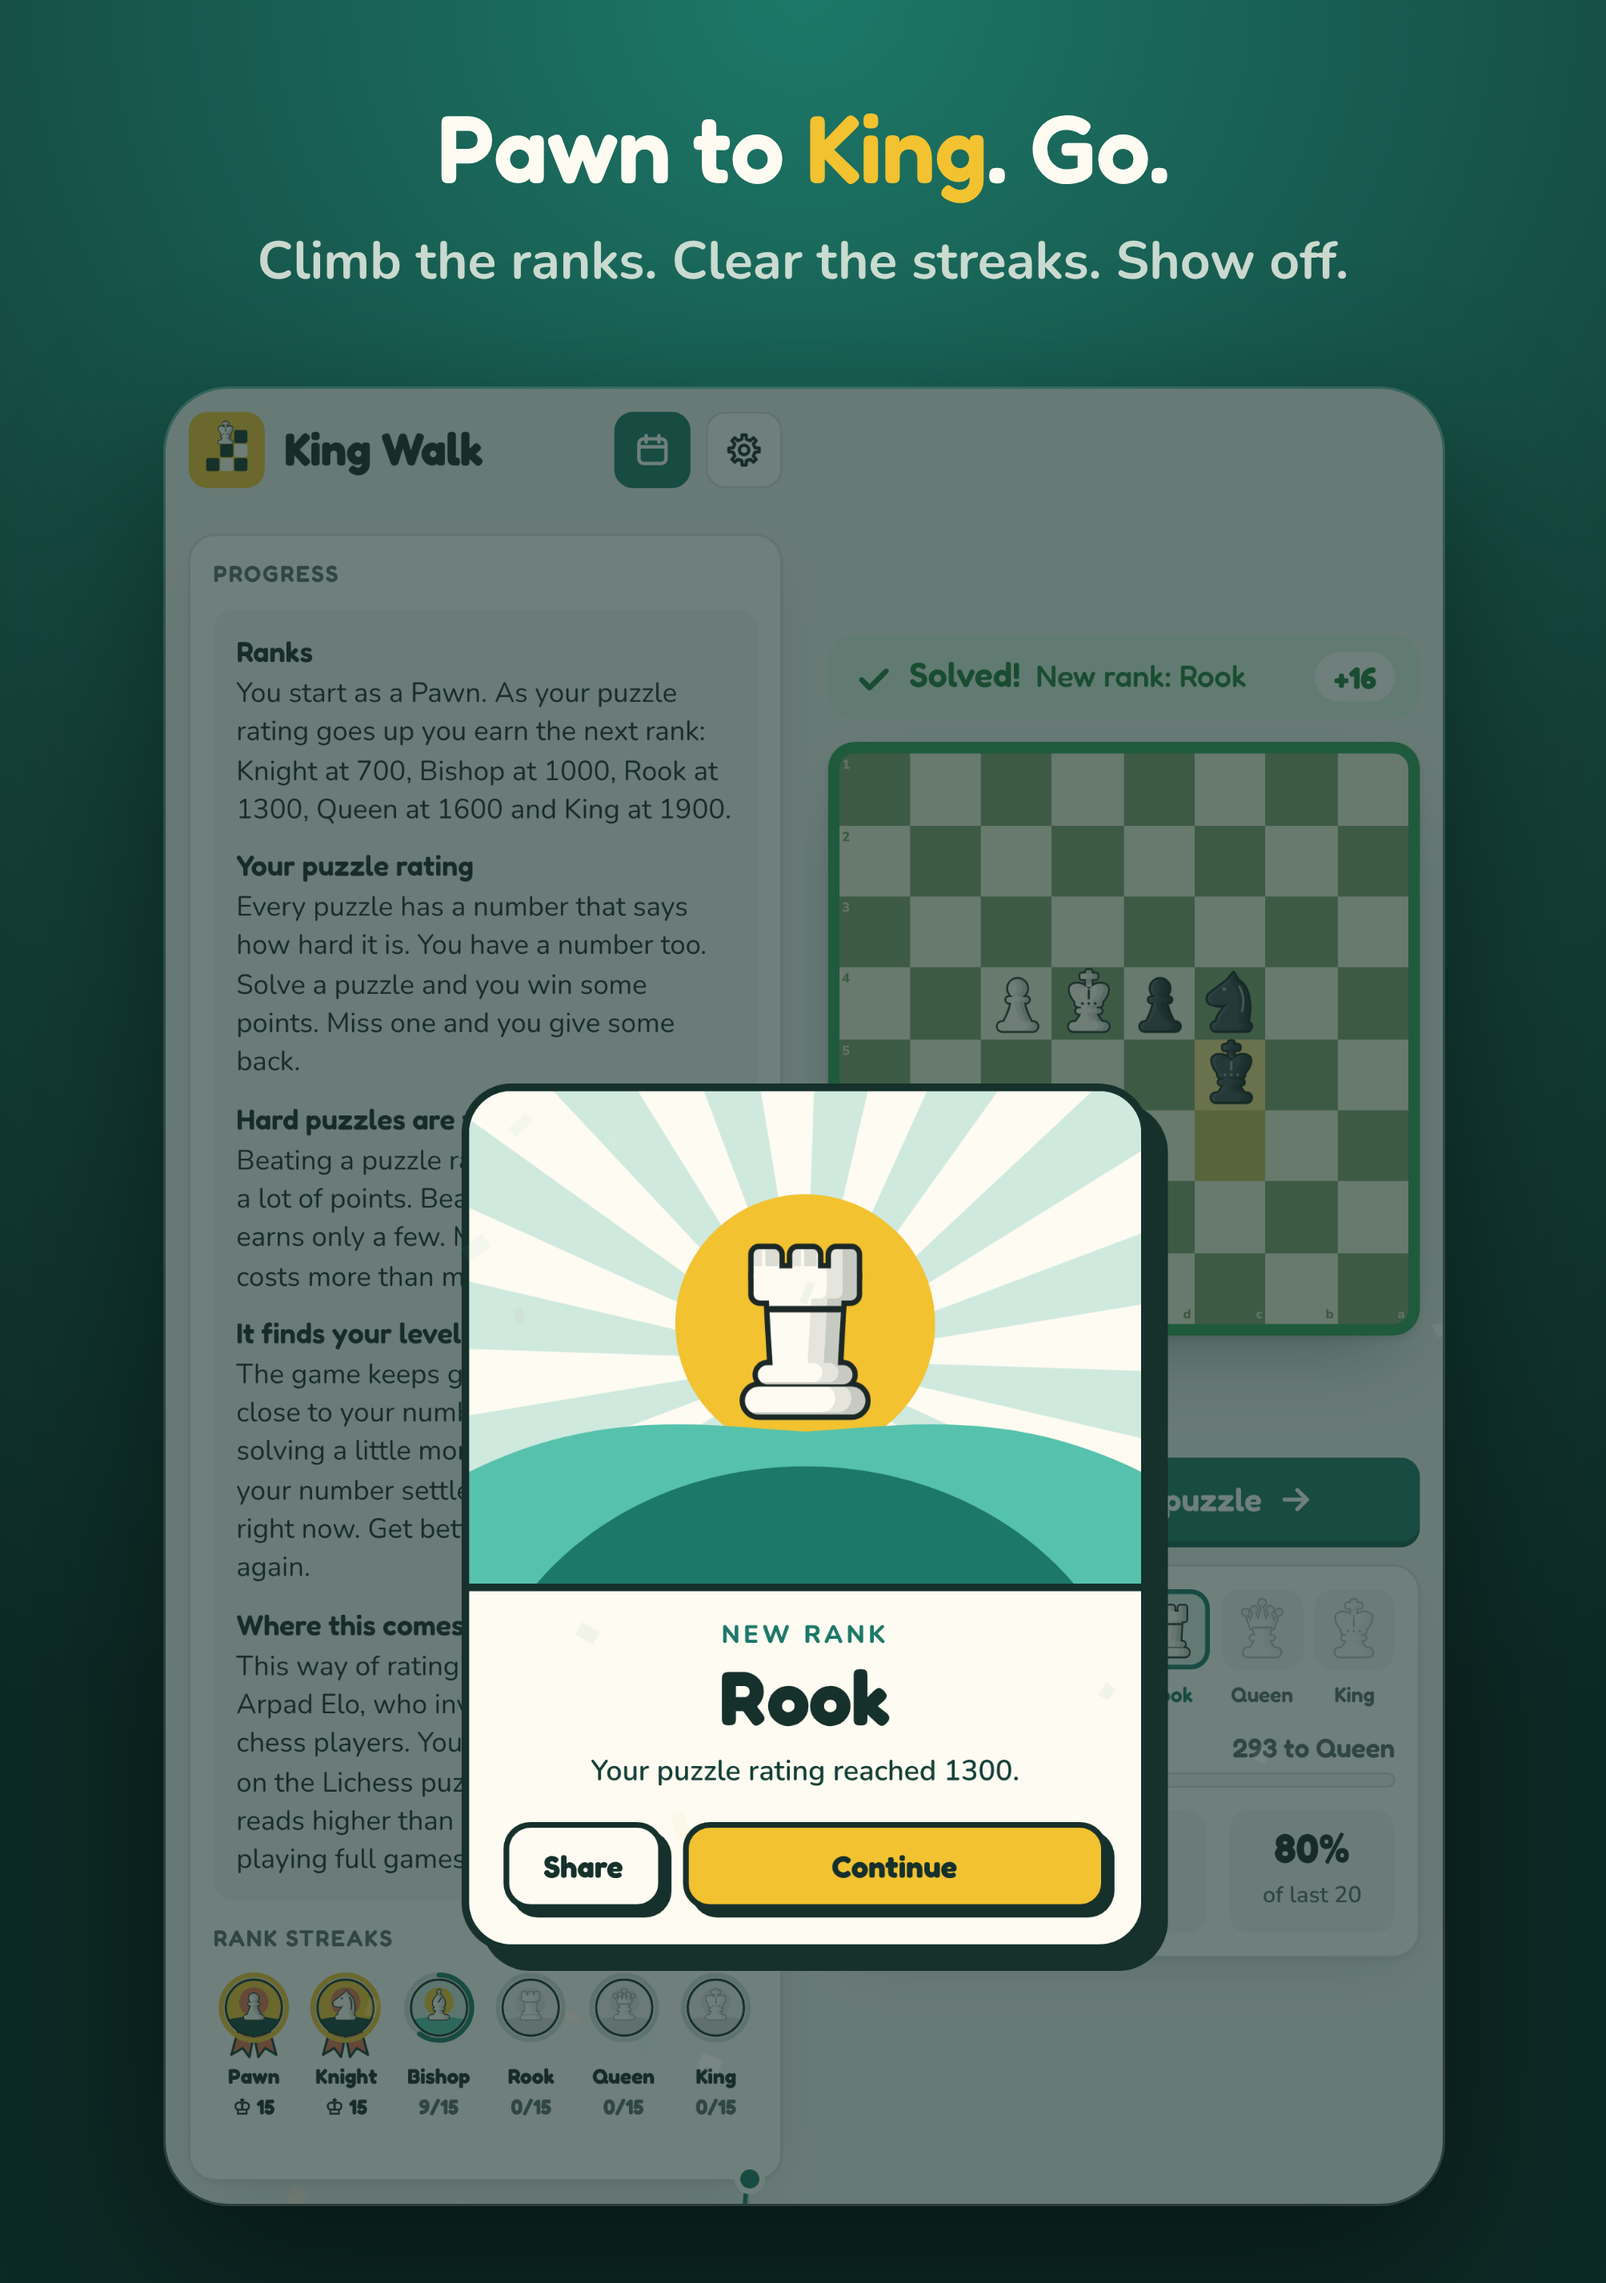
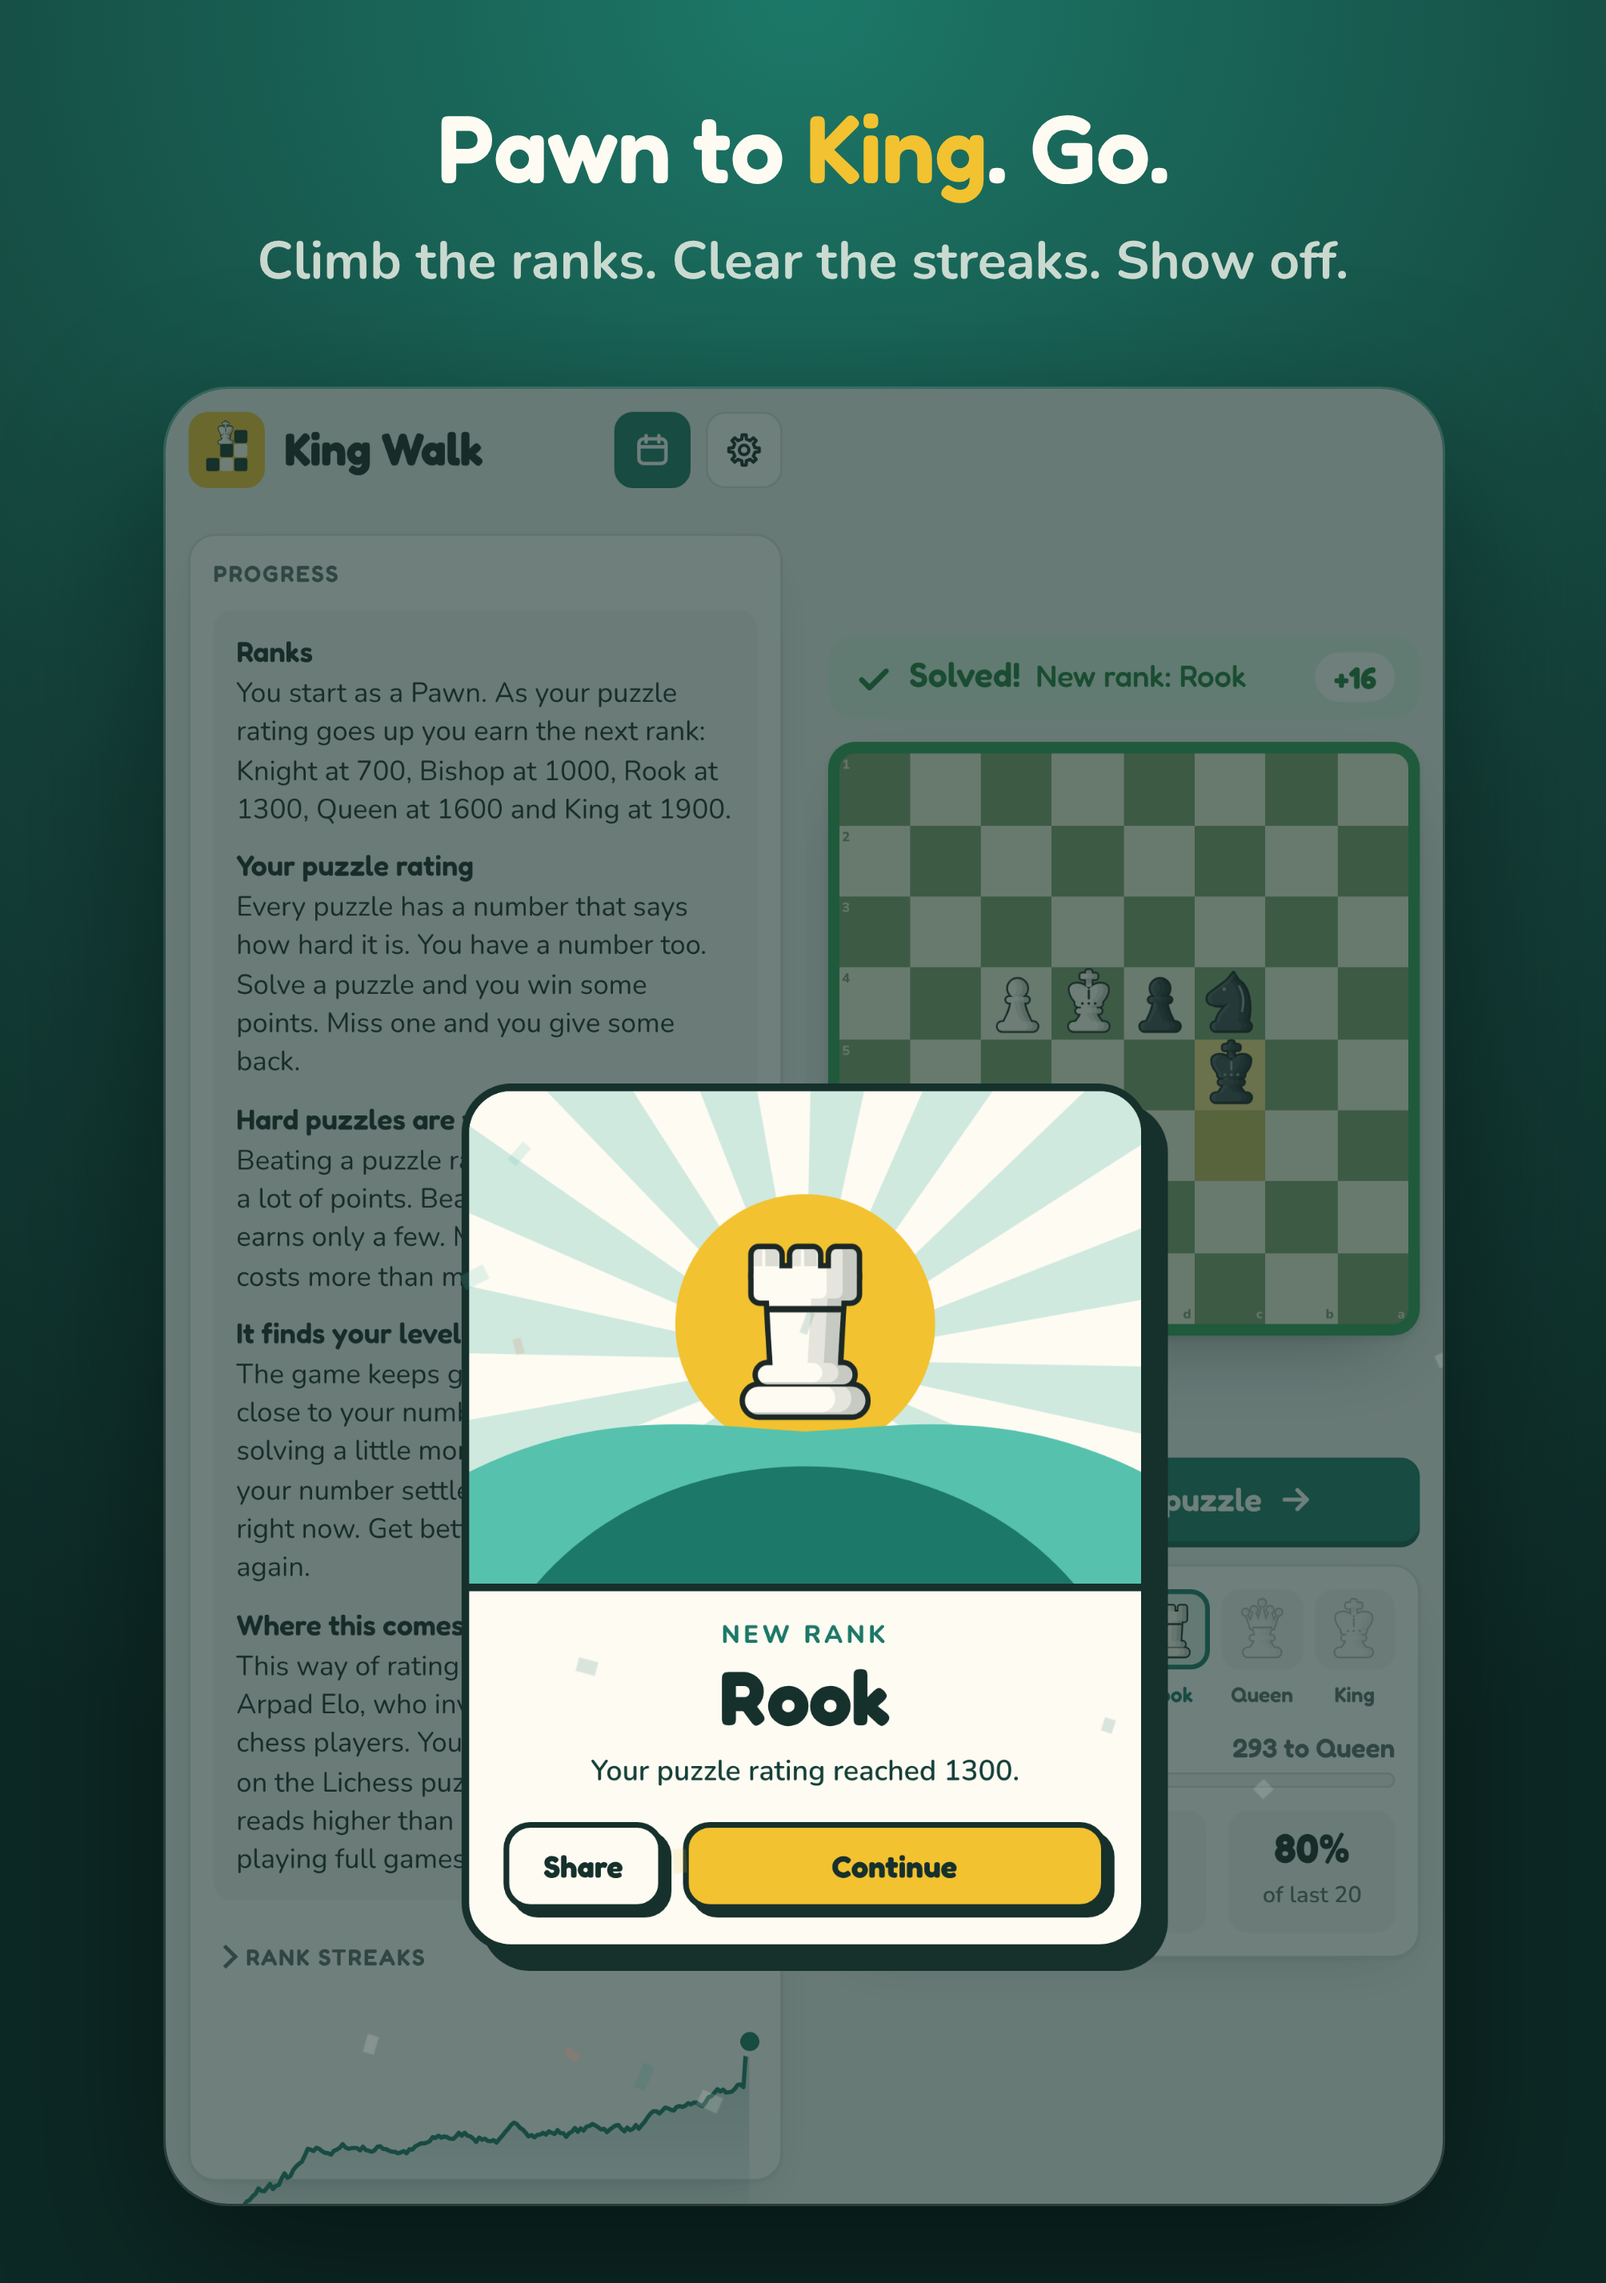
Rank streak badges fold into one row; Apple's names for StandBy in Spanish and Dutch
- Under Progress, Rank streaks is one line ("2 of 6 cleared"); tap it for the badges.
- The Spanish and Dutch listings use Apple's own names: "En reposo" and "Stand-by".
- Store screenshots regenerated; App Review notes say where rank streaks are.

Claude-Session: https://claude.ai/code/session_01Gz6UpCNqeV6v9yfsNTJcE1

Changed region(s): [[0.1236, 0.8423, 0.4634, 0.9671]]

diff --git a/lang.js b/lang.js
@@ -2,6 +2,7 @@
    (T("...") calls and the page's markup); missing entries show in English. {name} placeholders are filled in by the game. */
 window.KW_STRINGS = {
   "es": {
+    "{n} of {total} cleared": "{n} de {total} superadas",
     ", becomes a {piece}": ", se convierte en {piece}",
     ", can move here": ", se puede mover aquí",
     ", can take here": ", se puede capturar aquí",
@@ -281,6 +282,7 @@ window.KW_STRINGS = {
     "{rank} streak, puzzle {n} of {total}": "Racha {rank}, problema {n} de {total}"
   },
   "fr": {
+    "{n} of {total} cleared": "{n} sur {total} réussies",
     ", becomes a {piece}": ", promu en {piece}",
     ", can move here": ", déplacement possible",
     ", can take here": ", prise possible",
@@ -560,6 +562,7 @@ window.KW_STRINGS = {
     "{rank} streak, puzzle {n} of {total}": "Série {rank}, problème {n} sur {total}"
   },
   "de": {
+    "{n} of {total} cleared": "{n} von {total} geschafft",
     ", becomes a {piece}": ", Umwandlung in {piece}",
     ", can move here": ", Zug hierhin möglich",
     ", can take here": ", Schlagen hier möglich",
@@ -839,6 +842,7 @@ window.KW_STRINGS = {
     "{rank} streak, puzzle {n} of {total}": "Serie {rank}, Aufgabe {n} von {total}"
   },
   "it": {
+    "{n} of {total} cleared": "{n} su {total} superate",
     ", becomes a {piece}": ", promosso a {piece}",
     ", can move here": ", puoi muovere qui",
     ", can take here": ", puoi catturare qui",
@@ -1118,6 +1122,7 @@ window.KW_STRINGS = {
     "{rank} streak, puzzle {n} of {total}": "Serie {rank}, problema {n} su {total}"
   },
   "pt": {
+    "{n} of {total} cleared": "{n} de {total} concluídas",
     ", becomes a {piece}": ", promove a {piece}",
     ", can move here": ", pode ir para cá",
     ", can take here": ", pode capturar aqui",
@@ -1397,6 +1402,7 @@ window.KW_STRINGS = {
     "{rank} streak, puzzle {n} of {total}": "Sequência {rank}, problema {n} de {total}"
   },
   "nl": {
+    "{n} of {total} cleared": "{n} van {total} gehaald",
     ", becomes a {piece}": ", promoveert tot {piece}",
     ", can move here": ", hierheen mogelijk",
     ", can take here": ", slaan mogelijk",
@@ -1676,6 +1682,7 @@ window.KW_STRINGS = {
     "{rank} streak, puzzle {n} of {total}": "Reeks {rank}, puzzel {n} van {total}"
   },
   "ru": {
+    "{n} of {total} cleared": "Пройдено: {n} из {total}",
     ", becomes a {piece}": ", превращается в {piece}",
     ", can move here": ", можно пойти сюда",
     ", can take here": ", можно взять здесь",
@@ -1955,6 +1962,7 @@ window.KW_STRINGS = {
     "{rank} streak, puzzle {n} of {total}": "Серия {rank}, задача {n} из {total}"
   },
   "ja": {
+    "{n} of {total} cleared": "{total}中{n}クリア",
     ", becomes a {piece}": "、{piece}に昇格",
     ", can move here": "、ここへ移動できます",
     ", can take here": "、ここで取れます",
@@ -2234,6 +2242,7 @@ window.KW_STRINGS = {
     "{rank} streak, puzzle {n} of {total}": "{rank}チャレンジ、{n}/{total}問目"
   },
   "ko": {
+    "{n} of {total} cleared": "{total}개 중 {n}개 클리어",
     ", becomes a {piece}": ", {piece} 승진",
     ", can move here": ", 이동 가능",
     ", can take here": ", 잡기 가능",
@@ -2513,6 +2522,7 @@ window.KW_STRINGS = {
     "{rank} streak, puzzle {n} of {total}": "{rank} 도전, {n}/{total}번째 퍼즐"
   },
   "zh": {
+    "{n} of {total} cleared": "已通关 {n}/{total}",
     ", becomes a {piece}": "，升变为{piece}",
     ", can move here": "，可以走到这里",
     ", can take here": "，可以在这里吃子",

diff --git a/index.html b/index.html
@@ -326,7 +326,10 @@ html.kbd .cele-btns button:focus-visible { outline: 3px solid var(--p-ink); outl
 .run-btn.cleared b { color: var(--fg); }
 html.kbd .run-btn:focus-visible { outline: 3px solid var(--gold); outline-offset: 2px; }
 @media (hover: hover) { .run-btn:hover svg.badge { transform: translateY(-2px) rotate(-3deg); } }
-.runs { display: grid; gap: 6px; }
+.runs > summary { color: var(--muted); min-height: 34px; }
+.runs > summary .label { flex: 1; }
+.runs-sum { font: 700 13px var(--font-display); color: var(--muted); }
+.runs[open] > .run-row { margin-top: 8px; animation: rise 0.28s var(--ease-out) both; }
 /* the daily puzzle's header button: filled while today's waits, the streak once it's done */
 .top-btns { display: flex; align-items: center; gap: 8px; flex: none; }
 .daily-btn { min-height: var(--bar); height: var(--bar); padding: 0 12px; box-shadow: none; font-size: 15px; }
@@ -708,10 +711,10 @@ body::before { content: ""; position: fixed; inset: 0 0 auto; height: env(safe-a
         <div class="stat"><b id="stStreak">0</b><span>in a row</span></div>
         <div class="stat"><b id="stAcc">-</b><span>of last 20</span></div>
       </div>
-      <div class="runs">
-        <p class="label">Rank streaks</p>
+      <details class="runs" id="runsBox">
+        <summary><span class="label">Rank streaks</span><span class="runs-sum" id="runsSum"></span></summary>
         <div class="run-row" id="runRow"></div>
-      </div>
+      </details>
       <div class="chart-box">
         <div class="chart-wrap">
           <svg class="chart" id="chart" viewBox="0 0 300 64" preserveAspectRatio="none" role="img" aria-label="Rating over time"></svg>
@@ -1726,6 +1729,7 @@ function finishRun(clean) {
 }
 function renderRuns() {
   const row = $("runRow"), p = me(); row.textContent = "";
+  $("runsSum").textContent = T("{n} of {total} cleared", { n: RANKS.filter(r => (p.runs[r[2]] || 0) >= STREAK_LEN).length, total: RANKS.length });
   RANKS.forEach((r, i) => {
     const best = p.runs[r[2]] || 0, cleared = best >= STREAK_LEN, frac = best / STREAK_LEN;
     const b = document.createElement("button"); b.type = "button"; b.className = "run-btn" + (cleared ? " cleared" : best ? "" : " untried");

diff --git a/ios/store/listing.md b/ios/store/listing.md
@@ -135,7 +135,7 @@ Uploaded from `review_notes` in `listing.json` (App Review Information → Notes
 > - Hint circles the piece to move; a second hint circles where it goes. Answer plays the solution.
 > - After each puzzle: Next puzzle. The Progress card shows the rating, the rank ladder (Pawn to King), stats and a rating chart.
 > - Daily puzzle: the Daily button (top right). Once it's done, the button shows the daily streak and shares the result. One puzzle a day, the same for everyone (picked from the date, no server). Hints are allowed; Answer ends it for the day. Solving it on consecutive days builds a daily streak. Afterwards, Share sends a row of coloured squares and the time, with no moves.
-> - Rank streaks (under Progress): tap a rank for 15 puzzles that climb through it, with Hint and Answer off; a wrong move ends the run. They don't change the rating, and are the Game Center challenges (Pawn Streak to King Streak, plus Hardest Solve).
+> - Rank streaks (under Progress, tap Rank streaks to open them): tap a rank for 15 puzzles that climb through it, with Hint and Answer off; a wrong move ends the run. They don't change the rating, and are the Game Center challenges (Pawn Streak to King Streak, plus Hardest Solve).
 > - After each puzzle: Share (iOS share sheet). Menu (top right): Sound, Left-handed layout, Haptics, Daily reminder (off unless the player picks a time; a local notification), puzzle difficulty, Share, Game Center (leaderboards and achievements), Start over, How it works, Credits, Advanced (a save code to move progress to the website), and Support / Privacy / Terms links.
 > - Widgets: rank (Home Screen and Lock Screen) and daily puzzle (Home Screen, Lock Screen, StandBy). Control Center control and Siri / Shortcuts action "Play today's puzzle"; long press the app icon for "Today's puzzle".
 >
